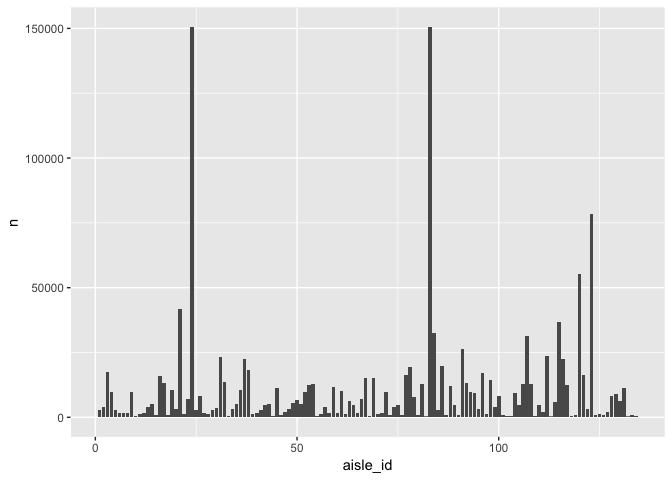
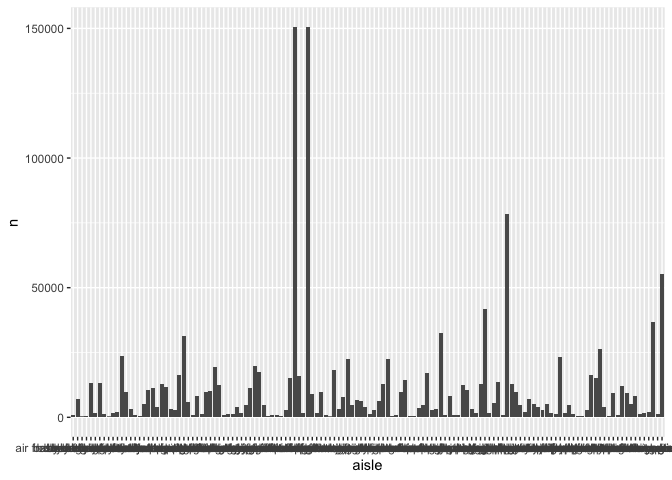
Problem 3 draft

Changed region(s): [[0.0312, 0.0312, 1.0, 1.0]]

diff --git a/p8105_hw3_gwk2111.md b/p8105_hw3_gwk2111.md
@@ -94,9 +94,9 @@ count(instacart, aisle_id) %>%
     ## 1       83 150609
 
 ``` r
-group_by(instacart, aisle_id) %>% 
+group_by(instacart, aisle) %>% 
   summarize(n = n()) %>% 
-  ggplot(aes(x = aisle_id, y = n)) +
+  ggplot(aes(x = aisle, y = n)) +
   geom_bar(stat = "identity") 
 ```
 
@@ -104,16 +104,17 @@ group_by(instacart, aisle_id) %>%
 
 ``` r
 filter(instacart, aisle == "baking ingredients" | aisle == "dog food care" | aisle == "packaged vegetables fruits") %>% 
-  group_by(aisle) %>% 
-  summarize(most_popular = max(product_name)) %>% 
+  group_by(aisle, product_name) %>% 
+  summarize(most_popular = n()) %>%
+  filter(min_rank(desc(most_popular)) < 2) %>% 
   knitr::kable()
 ```
 
-| aisle                      | most\_popular                   |
-|:---------------------------|:--------------------------------|
-| baking ingredients         | Zero Calorie Sweetener          |
-| dog food care              | Zero Grain Turkey Dog Food      |
-| packaged vegetables fruits | Zucchini Squash, Baby Courgette |
+| aisle                      | product\_name                                 |  most\_popular|
+|:---------------------------|:----------------------------------------------|--------------:|
+| baking ingredients         | Light Brown Sugar                             |            499|
+| dog food care              | Snack Sticks Chicken & Rice Recipe Dog Treats |             30|
+| packaged vegetables fruits | Organic Baby Spinach                          |           9784|
 
 ``` r
 library(lubridate)
@@ -145,3 +146,78 @@ filter(instacart, product_name == "Pink Lady Apples" | product_name == "Coffee I
 | Thu |          15.21739|          11.55172|
 | Fri |          12.26316|          12.78431|
 | Sat |          13.83333|          11.93750|
+
+Problem 3
+---------
+
+``` r
+ny_noaa = ny_noaa %>% 
+  janitor::clean_names()
+```
+
+``` r
+ny_noaa = ny_noaa %>% 
+  mutate(year = year(date),
+       month = month(date, label = TRUE),
+       day = lubridate::floor_date(date, unit = "day"),
+       prcp = prcp/10,
+       tmin = (as.numeric(tmin))/10,
+       tmax = (as.numeric(tmax))/10) 
+ 
+count(ny_noaa, snow) %>%
+  filter(min_rank(desc(n)) < 2) 
+```
+
+    ## # A tibble: 1 x 2
+    ##    snow       n
+    ##   <int>   <int>
+    ## 1     0 2008508
+
+``` r
+filter(ny_noaa, month == "Jan" | month == "Jul") %>% 
+  group_by(month, id, year) %>% 
+  summarize(mean_temp = mean(tmax, na.rm = FALSE)) %>% 
+  ggplot(aes(x = year, y = mean_temp)) +
+  geom_point() +
+  geom_smooth() +
+  facet_grid(~month)
+```
+
+    ## `geom_smooth()` using method = 'gam' and formula 'y ~ s(x, bs = "cs")'
+
+    ## Warning: Removed 7058 rows containing non-finite values (stat_smooth).
+
+    ## Warning: Removed 7058 rows containing missing values (geom_point).
+
+![](p8105_hw3_gwk2111_files/figure-markdown_github/unnamed-chunk-13-1.png)
+
+``` r
+library(hexbin)
+library(ggridges)
+```
+
+    ## 
+    ## Attaching package: 'ggridges'
+
+    ## The following object is masked from 'package:ggplot2':
+    ## 
+    ##     scale_discrete_manual
+
+``` r
+library(patchwork)
+tmax_tmin_p = ggplot(ny_noaa, aes(x = tmax, y = tmin)) +
+  geom_hex() 
+
+snowfall_p = filter(ny_noaa, snow > 0 & snow < 100) %>%
+  mutate(year = as.character(year)) %>% 
+  ggplot(aes(x = snow, y = year)) + 
+  geom_density_ridges() 
+
+(tmax_tmin_p + snowfall_p)
+```
+
+    ## Warning: Removed 1136276 rows containing non-finite values (stat_binhex).
+
+    ## Picking joint bandwidth of 3.76
+
+![](p8105_hw3_gwk2111_files/figure-markdown_github/unnamed-chunk-14-1.png)
